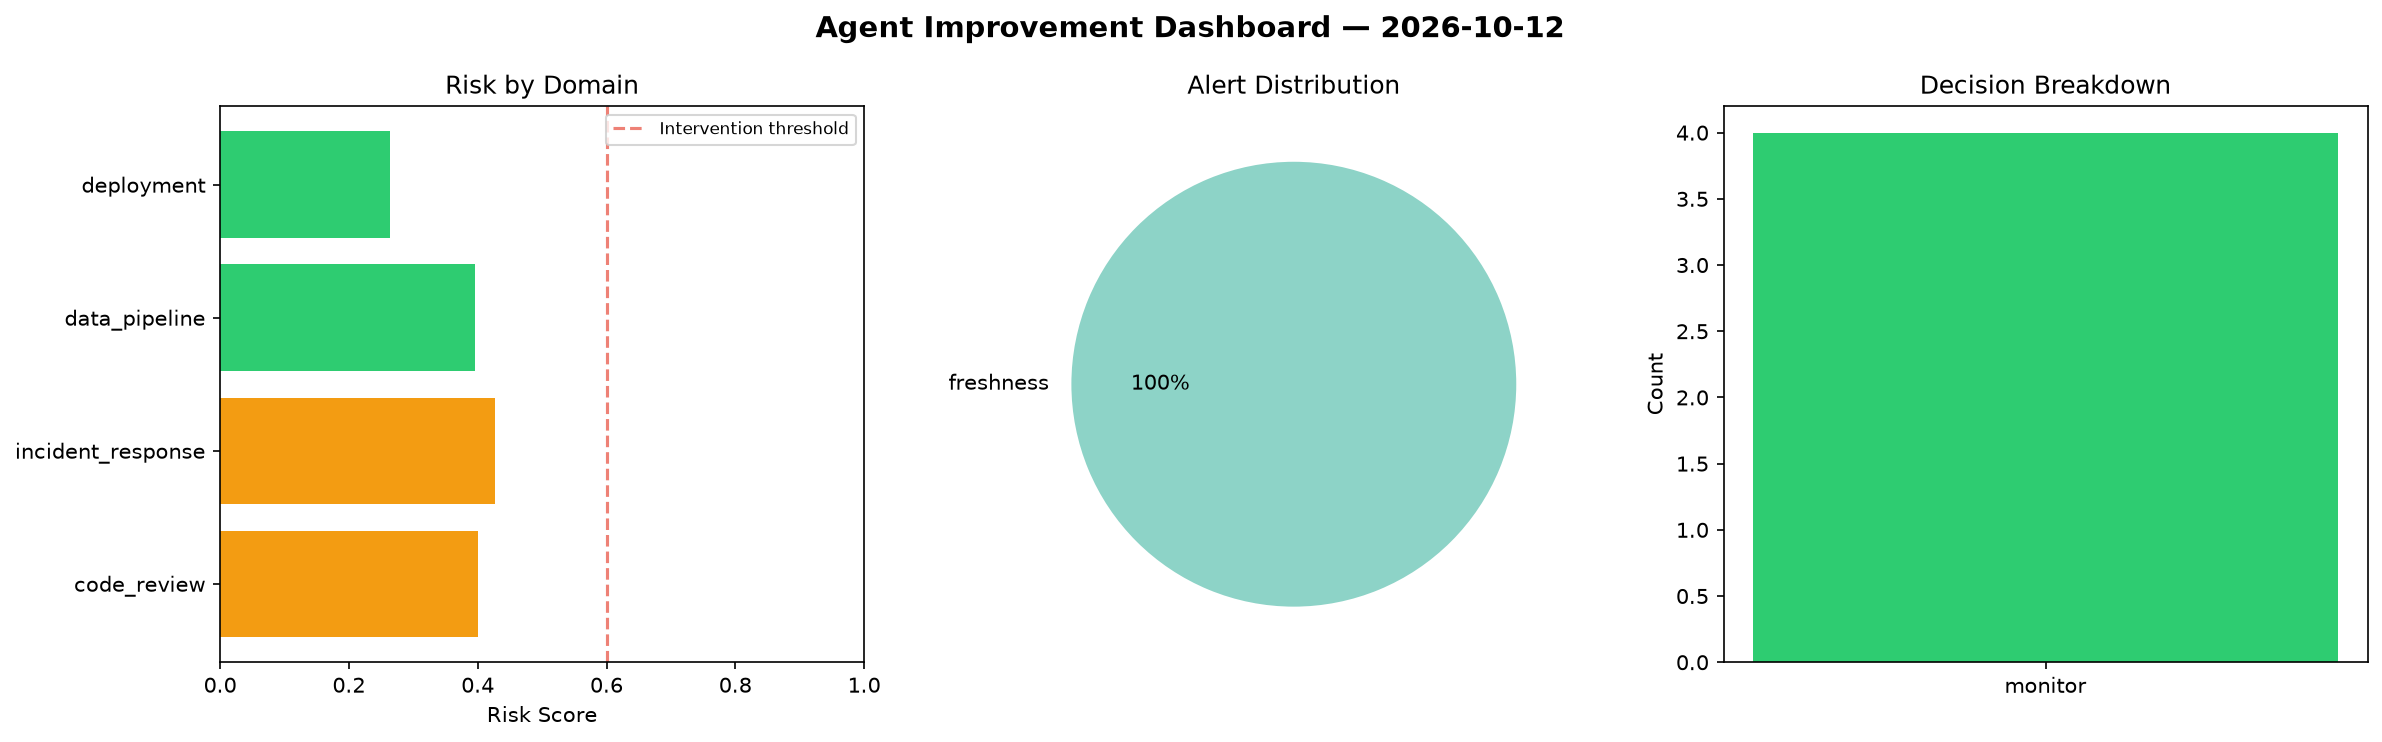
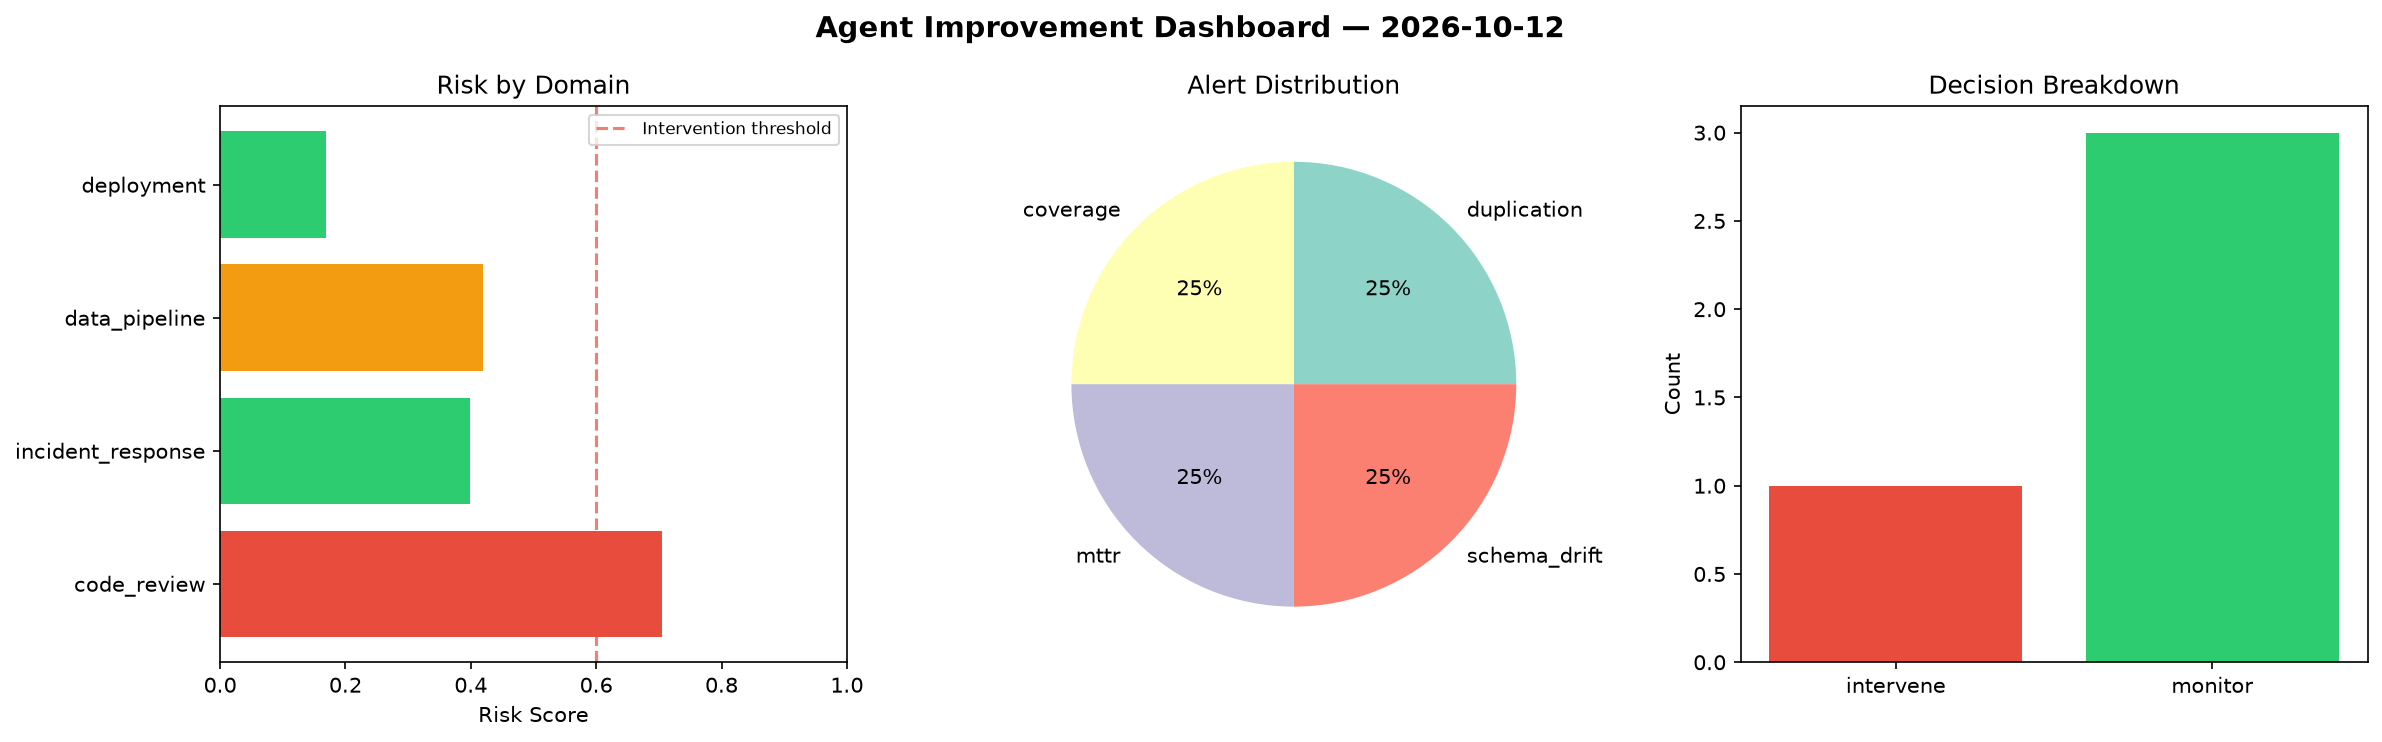
agent-improvement: daily cycle 2026-10-12T17:53

diff --git a/logs/2026-10-12.md b/logs/2026-10-12.md
@@ -1,6 +1,6 @@
 # Agent Improvement Report — 2026-10-12
 
-**Cycle ID:** `b2712331` | **Avg Risk:** 0.3721 | **Interventions:** 0/4
+**Cycle ID:** `f4e61a68` | **Avg Risk:** 0.4234 | **Interventions:** 1/4
 
 ![Dashboard](2026-10-12_dashboard.png)
 
@@ -10,18 +10,18 @@
 
 | Domain | Risk Score | Decision | Alerts |
 |--------|-----------|----------|--------|
-| code_review | 0.4011 | monitor | none |
-| incident_response | 0.4275 | monitor | none |
-| data_pipeline | 0.3956 | monitor | freshness |
-| deployment | 0.2643 | monitor | none |
+| code_review | 0.7051 | intervene | duplication, coverage |
+| incident_response | 0.3991 | monitor | mttr |
+| data_pipeline | 0.42 | monitor | schema_drift |
+| deployment | 0.1696 | monitor | none |
 
 ## Delta vs Yesterday
 
 | Domain | Today | Yesterday | Change |
 |--------|-------|-----------|--------|
-| code_review | 0.4011 | 0.5688 | 📉 -29.5% |
-| incident_response | 0.4275 | 0.2923 | 📈 46.3% |
-| data_pipeline | 0.3956 | 0.5197 | 📉 -23.9% |
-| deployment | 0.2643 | 0.3915 | 📉 -32.5% |
+| code_review | 0.7051 | 0.5688 | 📈 24.0% |
+| incident_response | 0.3991 | 0.2923 | 📈 36.5% |
+| data_pipeline | 0.42 | 0.5197 | 📉 -19.2% |
+| deployment | 0.1696 | 0.3915 | 📉 -56.7% |
 
 **Refinement:** `{'adjustment': 'maintain', 'trend': 'improving', 'window': 4}`
